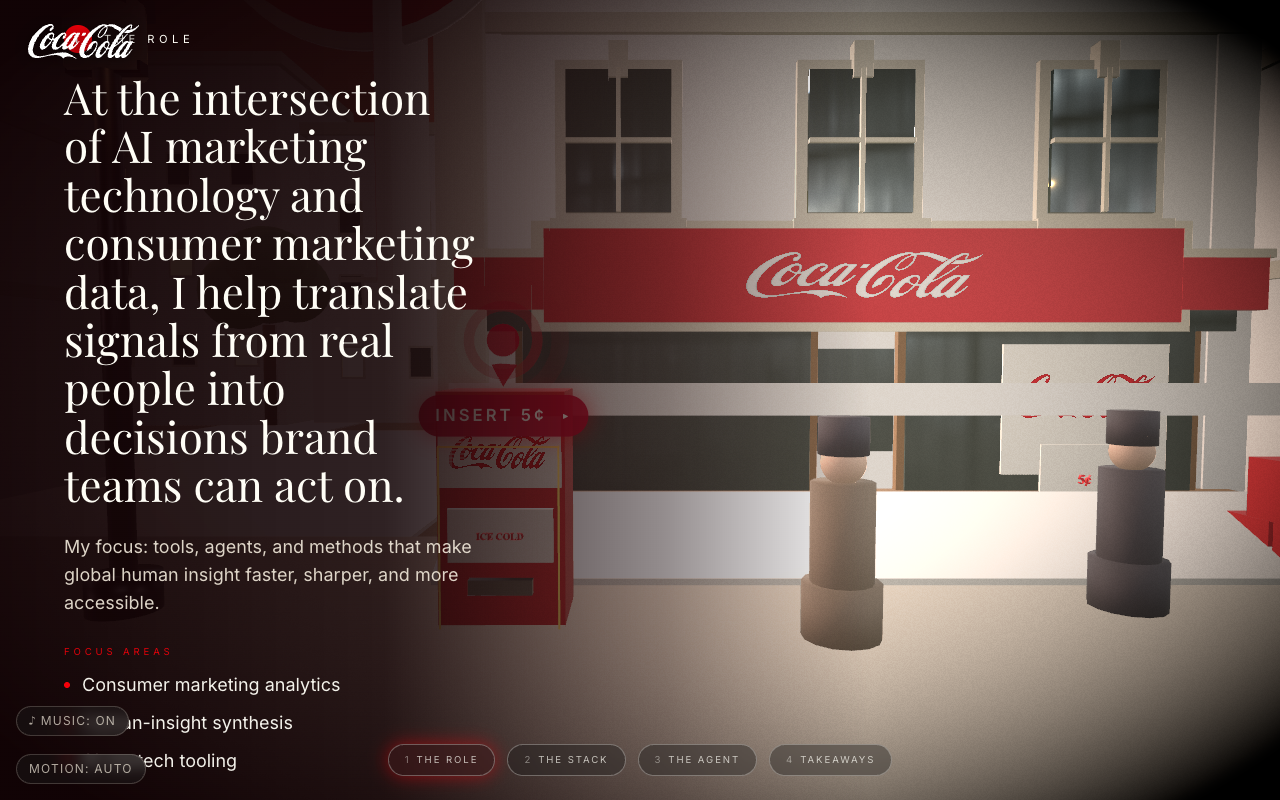
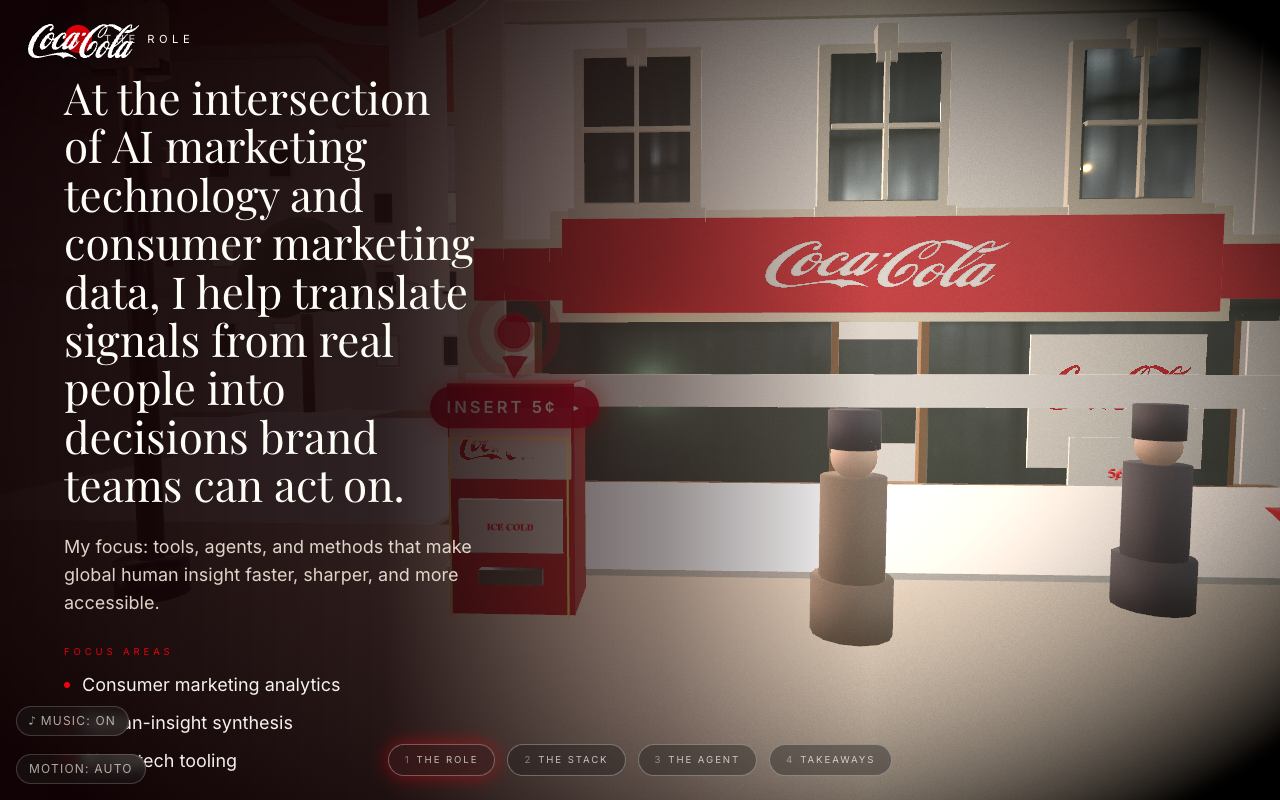
docs(plans): level-up 10 plan + refreshed suite shots

Changed region(s): [[0.3125, 0.0312, 1.0, 0.8125]]

diff --git a/plans/260609-2356-level-up-10-responsive-scene/plan.md b/plans/260609-2356-level-up-10-responsive-scene/plan.md
@@ -1,0 +1,30 @@
+# Level-up 10: the scene answers the chapter
+
+**Status:** ✅ complete — PR pending · **Branch:** `polish-pass-10` (stacked on 9)
+
+## Shipped
+
+1. **View-accent lighting** (`src/scene/view-accent-lights.tsx`) — the diorama
+   reacts to the chapter being read: pharmacy storefront warms in Role, the
+   vending corner rims in Tools, a far pool of light pulls the eye down the
+   corridor in Agent. Damped fades (snap under reduced motion); lights always
+   mounted (constant light count = no mid-session shader recompile). Role
+   accent tuned street-side after the first placement was swallowed inside
+   the building shell — caught by eyeball probe, not checks.
+2. **Loader tidbits** — three historical lines cycle during the longest dead
+   moment (slow-4G mobile spends 10 s+ on the loader); static under reduced
+   motion.
+3. **Per-chapter document.title** — distinct tab titles + history entries
+   (lives in chapter-overlay; the section registry can't be imported into the
+   provider without a cycle).
+4. **Cache-header fix** (`vercel.json`) — the blanket `/assets/* immutable`
+   year-long header also covered the UNHASHED GLBs/audio: returning visitors
+   could hold stale models for a year after a swap. Models/audio now
+   `max-age=3600, stale-while-revalidate=86400` (later rules override for
+   their paths); Vite's hashed bundles stay immutable.
+
+## Verification
+
+27/27 prod-preview checks (new: tab title on deep link). Accent probes
+eyeballed per view (/tmp shots; role accent re-placed after probe). Reviewer
+pass before PR.
